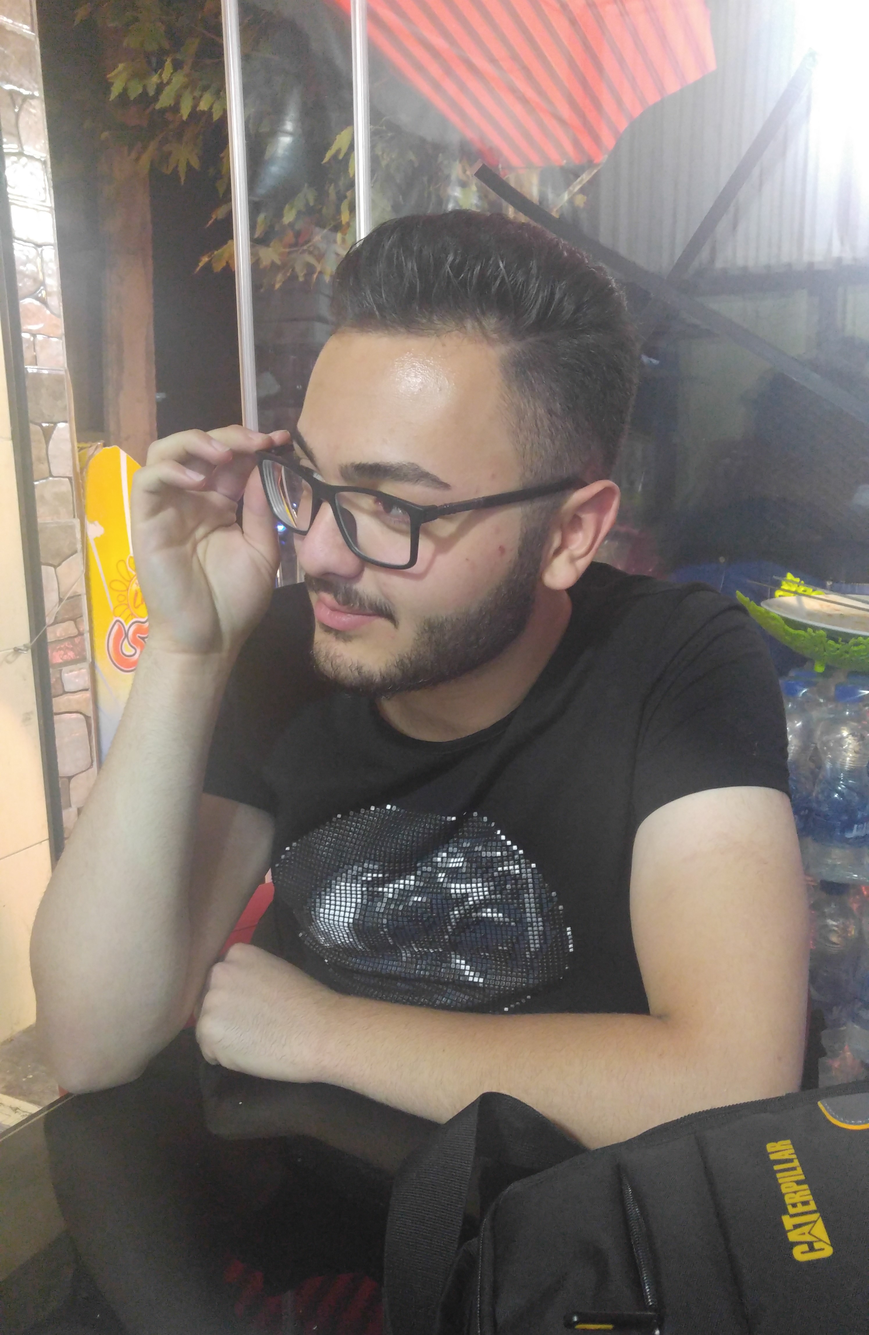
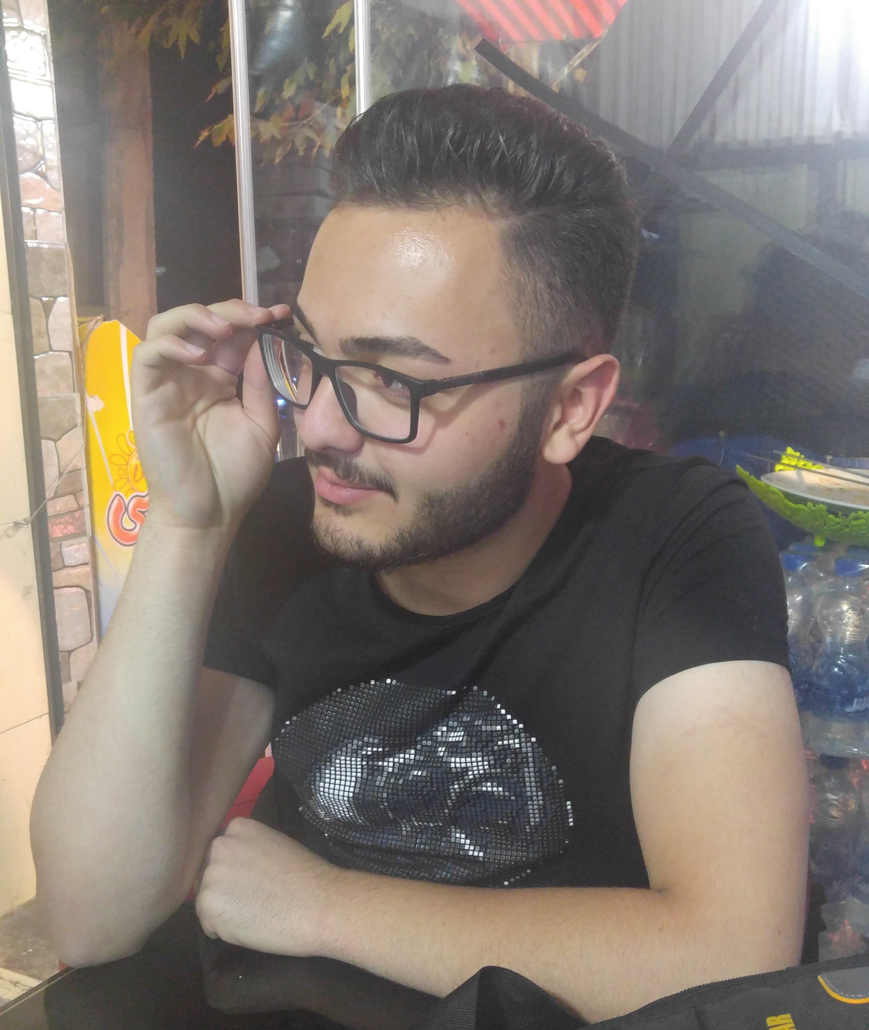
transition on members section

diff --git a/client/src/portfolio/scenes/Members.jsx b/client/src/portfolio/scenes/Members.jsx
@@ -1,9 +1,13 @@
 import { motion } from 'framer-motion';
 import LineGradient from '../components/LineGradient';
+import './members.css';
 
 const Members = ({ setSelectedPage }) => {
+  const overlayStyles = `absolute opacity-0 hover:opacity-90 transition duration-500
+    bg-grey z-30 flex flex-col justify-center items-center text-center text-deep-blue`;
   return (
     <section id="members" className="pt-10 pb-24">
+      {/* header */}
       <motion.div
         className="md:w-2/4 mx-auto text-center"
         initial="hidden"
@@ -26,27 +30,40 @@ const Members = ({ setSelectedPage }) => {
       </motion.div>
 
       <div className="md:flex md:justify-between mt-5 gap-10">
+        {/* 1st */}
         <motion.div
-          className="md:w-1/3 mt-10"
+          className="md:w-1/3 mt-10 relative"
           initial="hidden"
           whileInView="visible"
           onViewportEnter={() => setSelectedPage('members')}
           viewport={{ once: true, amount: 0.5 }}
-          transition={{ delay: 0.2, duration: 0.5 }}
+          transition={{ duration: 0.5 }}
           variants={{
             hidden: { opacity: 0, x: -50 },
             visible: { opacity: 1, x: 0 },
           }}
         >
-          <div className="text-center z-10 bg-black">
-            <p className="font-playfair p-5 font-semibold text-4xl">
+          <div className="text-center z-10 ">
+            <p className="font-playfair pt-1 px-5 font-semibold text-4xl">
               Ali Nayebi
             </p>
-            <img
-              alt="Ali Nayebi"
-              className="z-10 w-full max-w-[400px] m-auto md:max-w-[600px]"
-              src="assets/ali.jpg"
-            />
+            <p className="font-playfair p-1 font-semibold text-xl">
+              Front-End Developer
+            </p>
+            <div className="z-10 w-full max-w-[400px] m-auto md:max-w-[600px]">
+              <div className={overlayStyles}>
+                <img
+                  alt="Ali Nayebi"
+                  className="z-10 w-full max-w-[400px] m-auto md:max-w-[600px]"
+                  src="assets/alii.JPG"
+                />
+              </div>
+              <img
+                alt="Ali Nayebi"
+                className="z-10 w-full max-w-[400px] m-auto md:max-w-[600px]"
+                src="assets/ali.jpg"
+              />
+            </div>
 
             <p className="font-playfair font-semibold text-3xl mt-3">
               Experience
@@ -54,26 +71,38 @@ const Members = ({ setSelectedPage }) => {
           </div>
         </motion.div>
         <motion.div
-          className="md:w-1/3 mt-10"
+          className="md:w-1/3 mt-10 relative"
           initial="hidden"
           whileInView="visible"
           onViewportEnter={() => setSelectedPage('members')}
           viewport={{ once: true, amount: 0.5 }}
-          transition={{ delay: 0.4, duration: 0.5 }}
+          transition={{ duration: 0.5 }}
           variants={{
             hidden: { opacity: 0, x: -50 },
             visible: { opacity: 1, x: 0 },
           }}
         >
-          <div className="text-center z-10 bg-black">
-            <p className="font-playfair p-5 font-semibold text-5xl">
+          <div className="text-center z-10 ">
+            <p className="font-playfair pt-1 px-5 font-semibold text-4xl">
               Ali Nayebi
             </p>
-            <img
-              alt="Ali Nayebi"
-              className="z-10 w-full max-w-[400px] m-auto md:max-w-[600px]"
-              src="assets/ali.jpg"
-            />
+            <p className="font-playfair p-1 font-semibold text-xl">
+              Front-End Developer
+            </p>
+            <div className="z-10 w-full max-w-[400px] m-auto md:max-w-[600px]">
+              <div className={overlayStyles}>
+                <img
+                  alt="Ali Nayebi"
+                  className="z-10 w-full max-w-[400px] m-auto md:max-w-[600px]"
+                  src="assets/alii.JPG"
+                />
+              </div>
+              <img
+                alt="Ali Nayebi"
+                className="z-10 w-full max-w-[400px] m-auto md:max-w-[600px]"
+                src="assets/ali.jpg"
+              />
+            </div>
 
             <p className="font-playfair font-semibold text-3xl mt-3">
               Experience
@@ -81,26 +110,38 @@ const Members = ({ setSelectedPage }) => {
           </div>
         </motion.div>
         <motion.div
-          className="md:w-1/3 mt-10"
+          className="md:w-1/3 mt-10 relative"
           initial="hidden"
           whileInView="visible"
           onViewportEnter={() => setSelectedPage('members')}
           viewport={{ once: true, amount: 0.5 }}
-          transition={{ delay: 0.6, duration: 0.5 }}
+          transition={{ duration: 0.5 }}
           variants={{
             hidden: { opacity: 0, x: -50 },
             visible: { opacity: 1, x: 0 },
           }}
         >
-          <div className="text-center z-10 bg-black">
-            <p className="font-playfair p-5 font-semibold text-5xl">
+          <div className="text-center z-10 ">
+            <p className="font-playfair pt-1 px-5 font-semibold text-4xl">
               Ali Nayebi
             </p>
-            <img
-              alt="Ali Nayebi"
-              className="z-10 w-full max-w-[400px] m-auto md:max-w-[600px]"
-              src="assets/ali.jpg"
-            />
+            <p className="font-playfair p-1 font-semibold text-xl">
+              Front-End Developer
+            </p>
+            <div className="z-10 w-full max-w-[400px] m-auto md:max-w-[600px]">
+              <div className={overlayStyles}>
+                <img
+                  alt="Ali Nayebi"
+                  className="z-10 w-full max-w-[400px] m-auto md:max-w-[600px]"
+                  src="assets/alii.JPG"
+                />
+              </div>
+              <img
+                alt="Ali Nayebi"
+                className="z-10 w-full max-w-[400px] m-auto md:max-w-[600px]"
+                src="assets/ali.jpg"
+              />
+            </div>
 
             <p className="font-playfair font-semibold text-3xl mt-3">
               Experience
@@ -108,26 +149,38 @@ const Members = ({ setSelectedPage }) => {
           </div>
         </motion.div>
         <motion.div
-          className="md:w-1/3 mt-10"
+          className="md:w-1/3 mt-10 relative"
           initial="hidden"
           whileInView="visible"
           onViewportEnter={() => setSelectedPage('members')}
           viewport={{ once: true, amount: 0.5 }}
-          transition={{ delay: 0.8, duration: 0.5 }}
+          transition={{ duration: 0.5 }}
           variants={{
             hidden: { opacity: 0, x: -50 },
             visible: { opacity: 1, x: 0 },
           }}
         >
-          <div className="text-center z-10 bg-black">
-            <p className="font-playfair p-5 font-semibold text-5xl">
+          <div className="text-center z-10 ">
+            <p className="font-playfair pt-1 px-5 font-semibold text-4xl">
               Ali Nayebi
             </p>
-            <img
-              alt="Ali Nayebi"
-              className="z-10 w-full max-w-[400px] m-auto md:max-w-[600px]"
-              src="assets/ali.jpg"
-            />
+            <p className="font-playfair p-1 font-semibold text-xl">
+              Front-End Developer
+            </p>
+            <div className="z-10 w-full max-w-[400px] m-auto md:max-w-[600px]">
+              <div className={overlayStyles}>
+                <img
+                  alt="Ali Nayebi"
+                  className="z-10 w-full max-w-[400px] m-auto md:max-w-[600px]"
+                  src="assets/alii.JPG"
+                />
+              </div>
+              <img
+                alt="Ali Nayebi"
+                className="z-10 w-full max-w-[400px] m-auto md:max-w-[600px]"
+                src="assets/ali.jpg"
+              />
+            </div>
 
             <p className="font-playfair font-semibold text-3xl mt-3">
               Experience

diff --git a/client/dist/output.css b/client/dist/output.css
@@ -678,10 +678,6 @@ video {
   z-index: 40;
 }
 
-.z-\[-1\]{
-  z-index: -1;
-}
-
 .m-auto{
   margin: auto;
 }
@@ -760,10 +756,6 @@ video {
   height: 0.75rem;
 }
 
-.h-32{
-  height: 8rem;
-}
-
 .h-full{
   height: 100%;
 }
@@ -772,12 +764,12 @@ video {
   max-height: 400px;
 }
 
-.w-1\/2{
-  width: 50%;
-}
-
 .w-1\/3{
   width: 33.333333%;
+}
+
+.w-2\/3{
+  width: 66.666667%;
 }
 
 .w-3{
@@ -796,12 +788,12 @@ video {
   width: 100%;
 }
 
-.w-2\/3{
-  width: 66.666667%;
-}
-
 .max-w-\[100px\]{
   max-width: 100px;
+}
+
+.max-w-\[280px\]{
+  max-width: 280px;
 }
 
 .max-w-\[400px\]{
@@ -846,10 +838,6 @@ video {
 
 .gap-16{
   gap: 4rem;
-}
-
-.gap-32{
-  gap: 8rem;
 }
 
 .gap-6{
@@ -932,6 +920,10 @@ video {
   padding: 1.25rem;
 }
 
+.p-1{
+  padding: 0.25rem;
+}
+
 .px-10{
   padding-left: 2.5rem;
   padding-right: 2.5rem;
@@ -962,6 +954,11 @@ video {
   padding-bottom: 0.75rem;
 }
 
+.px-5{
+  padding-left: 1.25rem;
+  padding-right: 1.25rem;
+}
+
 .pb-24{
   padding-bottom: 6rem;
 }
@@ -984,6 +981,14 @@ video {
 
 .pt-48{
   padding-top: 12rem;
+}
+
+.pt-5{
+  padding-top: 1.25rem;
+}
+
+.pt-1{
+  padding-top: 0.25rem;
 }
 
 .text-center{
@@ -1026,6 +1031,11 @@ video {
 .text-sm{
   font-size: 0.875rem;
   line-height: 1.25rem;
+}
+
+.text-xl{
+  font-size: 1.25rem;
+  line-height: 1.75rem;
 }
 
 .font-semibold{
@@ -1253,10 +1263,6 @@ body,
 
   .md\:w-2\/4{
     width: 50%;
-  }
-
-  .md\:w-3\/4{
-    width: 75%;
   }
 
   .md\:max-w-\[600px\]{

diff --git a/client/src/portfolio/scenes/members.css b/client/src/portfolio/scenes/members.css
@@ -1,0 +1,15 @@
+.img {
+  position: absolute;
+}
+.hover_img {
+  position: absolute;
+
+  top: 0;
+
+  left: 0;
+
+  display: none;
+}
+.img:hover .hover_img {
+  display: inline;
+}
